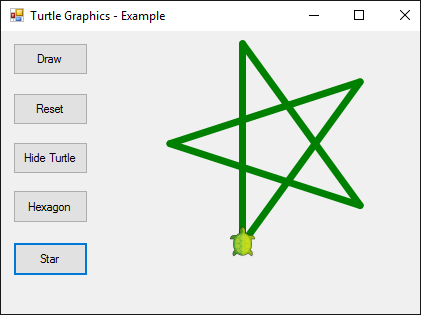
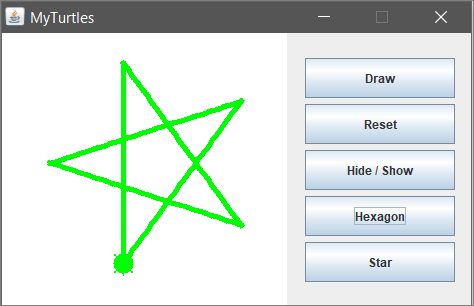
update images chapter 5

diff --git a/chapter-05-loops.md b/chapter-05-loops.md
@@ -364,9 +364,6 @@
 
 ### Задача: чертане с костенурка – графично GUI приложение
 
-//TODO: To Update or to Delete this part
-// Има промени направени с Replace
-
 Целта на следващото упражнение е да си поиграем с една **библиотека за рисуване**, известна като **“графика с костенурка” (turtle graphics)**. Ще изградим графично приложение, в което ще **рисуваме различни фигури**, придвижвайки нашата **“костенурка”** по екрана чрез операции от типа “отиди напред 100 позиции”, “завърти се надясно на 30 градуса”, “отиди напред още 50 позиции”. Приложението ще изглежда приблизително така:
 
 ![](assets/chapter-5-images/13.Turtle-graphics-01.png)
@@ -377,57 +374,87 @@
 * статия за “turtle graphics” в Wikipedia – [https://en.wikipedia.org/wiki/Turtle_graphics](https://en.wikipedia.org/wiki/Turtle_graphics)
 * интерактивен онлайн инструмент за чертане с костенурка – [https://blockly-games.appspot.com/turtle](https://blockly-games.appspot.com/turtle)
 
-Започваме, като създаваме нов **Java Windows Forms проект**:
+Започваме, като създаваме нов **Java проект** в **IntelliJ IDEA**. След това, добавяме нов пакет **app**. (описано по-рано в тази глава). 
+Сваляме **MyTurtle.java** и **jturtle-0.1.1.jar** от [https://github.com/SoftUni/Programming-Basics-Book-Java-BG/tree/master/assets/chapter-5-1-assets](https://github.com/SoftUni/Programming-Basics-Book-Java-BG/tree/master/assets/chapter-5-1-assets). **MyTurtle.java** е предварително написан клас, който ще ни помогне по-бързо да се запознаем с библиотеката **jturtle-0.1.1.jar**, която управлява **костенурката**. Като използваме файл навигатор, копираме **MyTurtle.java** в директорията **app** на създадения проект. След това трябва да добавим външната библиотека **jturtle-0.1.1.jar** в нашия проект. Това става по следния начин:
+
+* Избираме **File** от **File menu**
+* Натискаме **Project Structure** (CTRL + SHIFT + ALT + S)
+* Натискаме **Select Modules** в левия панел
+* Натискаме **Dependencies tab**
+* Натискаме **'+'** → **JARs or directories**
 
 ![](assets/chapter-5-images/13.Turtle-graphics-02.png)
 
-Инсталираме **NuGet** пакета **"Nakov.TurtleGraphics"** към нашия нов Windows Forms проект. От IntelliJ IDEA може да се добавят **външни библиотеки** (пакети) към съществуващ Java проект. Те добавят допълнителна функционалност към нашите приложения. Официалното хранилище (repository) за Java библиотеки се поддържа от Microsoft и се нарича **NuGet** ([http://www.nuget.org/](http://www.nuget.org/)).
-
-Кликаме с десен бутон на мишката върху проекта в **Solution Explorer** и избираме [**Manage NuGet Packages…**]:
+На следващият прозорец задаваме пътя до **jturtle-0.1.1.jar**, след това натискаме **ОК**.
  
 ![](assets/chapter-5-images/13.Turtle-graphics-03.png)
 
-Ще се отвори прозорец за търсене и инсталиране на **NuGet** пакети. Нека потърсим пакети по ключова дума **`nakov`**. Ще излязат няколко пакета. От тях избираме пакет **`Nakov.TurtleGraphics`**. Натискаме [**Install**], за да го инсталираме към нашия Java проект:
+На следващият прозорец маркираме само **classes check box**, след това натискаме **ОК**.
  
 ![](assets/chapter-5-images/13.Turtle-graphics-04.png)
 
-Към нашия Java проект вече е включена външната библиотека **`Nakov.TurtleGraphics`**. Тя дефинира клас **`Turtle`**, който представлява **костенурка за рисуване**. За да го използваме, трябва да добавим в Java кода за нашата форма (**`Form1.cs`**). Добавяме следния код, най-отгоре в началото на файла:
+На следващият прозорец избираме **ОК** и сме готови да отворим **MyTurtle.java**.
   
-![](assets/chapter-5-images/13.Turtle-graphics-05.png)
-
-Сега трябва да сложим **три бутона** във формата и да променим **имената** и **свойствата** им, както е посочено по-долу:
- 
 ![](assets/chapter-5-images/13.Turtle-graphics-06.png)
 
-Кликваме два пъти върху бутона [**Draw**], за да въведем кода, който да се изпълни при натискането му. Пишем следния код:
+#### Основни Методи на класа Turtle
+
+| Връщана <br> стойност | Метод и неговото описание |
+| --- | --- |
+| Turtle| **back**(double distance) <br>Same as bk(double distance). | 
+| Turtle| **bk**(double distance) <br>Moves the Turtle backwards.|
+| Turtle| **fd**(double distance) <br>Moves the Turtle forwards. |
+| Turtle| **forward**(double distance) <br> Same as fd(double distance). |
+| Turtle| **hideTurtle()** <br> Hides the turtle. |
+| Turtle| **home()** <br> Move the Turtle back "home", i.e. set its position to the origin, facing NORTH. |
+| Turtle| **ht()** <br> Hides the turtle. |
+| Turtle| **left()** <br> Same as lt(double degrees)|
+| Turtle| **lt()** <br> Turns the Turtle degrees degrees to the left.|
+| Turtle| **pd()** <br> Lowers the Turtles Pen down so it will draw a line when moving. |
+| Turtle| **penDown()** <br> Lowers the Turtles Pen down so it will draw a line when moving. |
+| Turtle| **penUp()** <br> Lifts the Turtles Pen up so it won't draw a line anymore when moving. |
+| Turtle| **penWidth**(int newWidth) <br> Set the pen width.|
+| Turtle| **pu**(int newWidth) <br> Lifts the Turtles Pen up so it won't draw a line anymore when moving.|
+| Turtle| **right**(double degrees) <br>Same as rt(double degrees).|
+| Turtle| **rt**(double degrees) <br>Turns the Turtle degrees degrees to the right.|
+| Turtle| **setColor**(Color color) <br>Set the turtle's color to the specified one.|
+| Turtle| **setLineWidth**(double lineWidth) <br>Set the Line Thickness.|
+| Turtle| **setPenColor**(Color color) <br>Set the Turtles Pen color.|
+| Turtle| **setPos**(double x, double y) <br>Put the turtle to a new position with specified x- and y-coordinates.|
+| Turtle| **showTurtle**() <br>The same as st().|
+| Turtle| **speed**(double newSpeed) <br>Set the Turtles speed.|
+| Turtle| **st**() <br>Sets the turtle to show mode.|
+
+
+За да създадем метод който чертае триъгълник, в **MyTurtle.java** намираме празния метода **drawTriangle()** и написваме следния код: 
 
 ![](assets/chapter-5-images/13.Turtle-graphics-07.png)
 
 Този код мести и върти костенурката, която в началото е в центъра на екрана (в средата на формата), и чертае равностранен триъгълник. Може да го редактирате и да си поиграете с него.
 
-**Стартираме** приложението с [**Ctrl+F5**]. Тестваме го дали работи (натискаме [**Draw**] бутона няколко пъти):
+**Стартираме** приложението с [**Shift + F10**]. Тестваме го дали работи (натискаме [**Draw**] бутона няколко пъти):
 
 ![](assets/chapter-5-images/13.Turtle-graphics-08.png)
 
-Сега може да променим и усложним кода на **костенурката**: 
+Сега може да променим и усложним кода на **костенурката**, като добавим следния код към нашия метод **drawTriangle()**: 
 
 ![](assets/chapter-5-images/13.Turtle-graphics-09.png)
 
-Отново **стартираме** приложението с [**Ctrl+F5**]. Тестваме дали работи новата програма за костенурката:
+Отново **стартираме** приложението с [**Shift + F10**]. Тестваме дали работи новата програма за костенурката:
 
 ![](assets/chapter-5-images/13.Turtle-graphics-10.png)
 
-Вече нашата костенурката чертае по-сложни фигури чрез приятно анимирано движение.
+Вече нашата костенурката чертае по-сложни фигури.
 
-Нека напишем кода и за останалите два бутона. Целта на бутона [**Reset**] е да изтрие графиката и да започне да чертае на чисто:
+Нека напишем кода и за останалите два бутона: целта на бутона [**Reset**] е да изтрие начертаната графика и да позиционира костенурката в нейната начална позиция, допълваме метода **resetTurtle()** със следния код:
 
 ![](assets/chapter-5-images/13.Turtle-graphics-11.png)
 
-Целта на бутона [**Show / Hide Turtle**] е да показва или скрива костенурката: 
+Целта на бутона [**Hide / Show Turtle**] е да показва или скрива костенурката, допълваме метода **showTurtle()** със следния код:: 
 
 ![](assets/chapter-5-images/13.Turtle-graphics-12.png)
 
-Отново **стартираме** приложението с [**Ctrl+F5**] и го тестваме, дали работи коректно.
+Отново **стартираме** приложението с [**Shift + F10**] и тестваме, дали двата бутона работят коректно.
 
 ### Задача: * чертане на шестоъгълник с костенурката
 
@@ -441,6 +468,32 @@
 * Ротация на 60 градуса.
 * Движение напред 100.
 
+### Добавяне на нов бутон за чертане на фигура
+
+За добавяне нов бутон за чертане на нова фигура, може да проследим логиката в **MyTurtle.java** за бутона **Draw** и да създадем нов бутон за чертане на шестоъгълник **Hexagon**.
+
+Първо добавяме новата фигура в **`enum Shape`**:
+
+![](assets/chapter-5-images/13.Turtle-graphics-20.png)
+
+Създаваме нов бутон и му добавяме **ActionListener**, който присвоява на **`shape`** новата **`enum`** стойност:
+
+![](assets/chapter-5-images/13.Turtle-graphics-18.png)
+
+След това добавяме новия бутон в **`bList`**:
+
+![](assets/chapter-5-images/13.Turtle-graphics-19.png)
+
+Създаваме нов метод **`drawHex()`**, чрез който костенурката чертае шестоъгълник.
+Задължително в края на метода **`shape = ""`**, този ред предотвратява многократното изпълнение на нашия метод!
+
+![](assets/chapter-5-images/13.Turtle-graphics-21.png)
+
+В **`Thread t`** добавяме **case "Hexagon"**, който да извиква метода **`drawHex()`**:
+
+![](assets/chapter-5-images/13.Turtle-graphics-22.png)
+
+
 ### Задача: * чертане на звезда с костенурката
 
 Добавете бутон [**Star**], който чертае звезда с 5 върха (**петолъчка**), като на фигурата по-долу:
@@ -449,13 +502,13 @@
 
 **Подсказка:**
 
-Сменете цвета: **`Turtle.PenColor` = `Color.Green`**. 
+Сменете цвета: **`turtle.setPenColor(Color.green);`**. 
 
 В цикъл повторете 5 пъти следното:
 * Движение напред 200.
 * Ротация на 144 градуса.
 
-### Задача * чертане на спирала с костенурката
+### Задача: * чертане на спирала с костенурката
 
 Добавете бутон [**Spiral**], който чертае спирала с 20 върха като на фигурата по-долу:
 
@@ -481,4 +534,5 @@
 
 Чертайте в цикъл като движите напред и завъртате. С всяка стъпка увеличавайте с 10 дължината на движението напред и завъртайте на 120 градуса. Повторете 3 пъти за трите триъгълника.
 
-Ако имате проблеми с примерния проект по-горе, **гледайте видеото** в началото на тази глава. Там приложението е направено на живо стъпка по стъпка с много обяснения. Или питайте във **форума на СофтУни**: https://softuni.bg/forum.
+Ако имате проблеми с примерния проект по-горе попитайте във **форума на СофтУни**: https://softuni.bg/forum.
+
